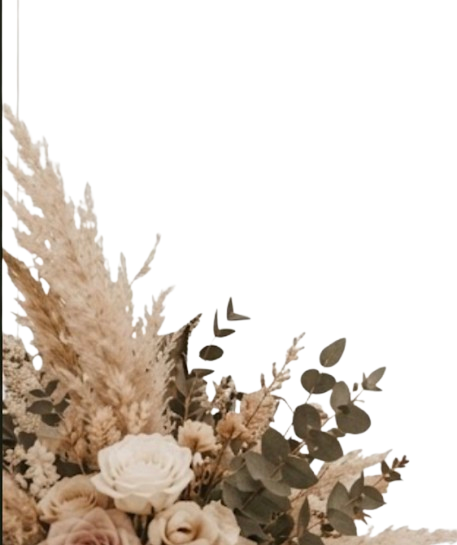
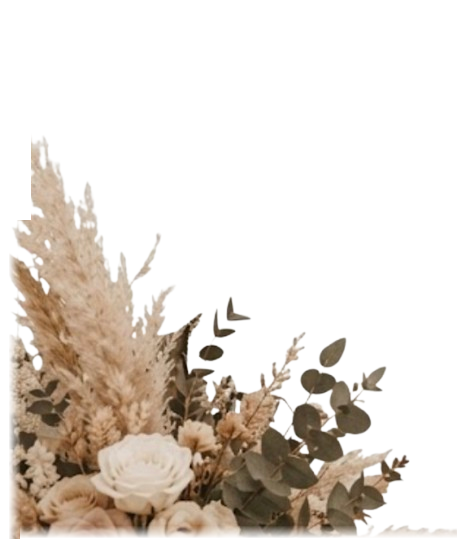
Clean PNG edge artifacts and perfectly align top foliage branch and bottom bouquet with arch frame

Changed region(s): [[0.0, 0.0, 1.0, 1.0]]

diff --git a/styles.css b/styles.css
@@ -533,16 +533,22 @@ a {
   margin: 0 auto;
 }
 
-/* Top Arch Foliage Branch */
+/* Top Arch Foliage Branch — Hugging the Golden Arch Curve */
 .arch-top-foliage {
   position: absolute;
-  top: -38px;
-  left: -26px;
-  width: clamp(125px, 16vw, 165px);
+  top: -24px;
+  left: -14px;
+  width: clamp(140px, 18vw, 185px);
   z-index: 25;
   pointer-events: none;
-  transform: rotate(-15deg);
-  filter: drop-shadow(0 8px 16px rgba(0, 0, 0, 0.6));
+  transform: rotate(-6deg);
+  transform-origin: bottom left;
+  filter: drop-shadow(0 10px 20px rgba(0, 0, 0, 0.65));
+  transition: transform 0.4s ease;
+}
+
+.bespoke-arch-wrapper:hover .arch-top-foliage {
+  transform: rotate(-4deg) scale(1.02);
 }
 
 /* Double Gold Arched Contour Frame */
@@ -593,21 +599,21 @@ a {
   pointer-events: none;
 }
 
-/* Floral Bouquet Overlapping Bottom Left */
+/* Floral Bouquet Overlapping Bottom Left Corner of Arch */
 .arch-bottom-bouquet {
   position: absolute;
-  bottom: -32px;
-  left: -44px;
-  width: clamp(155px, 21vw, 215px);
+  bottom: -22px;
+  left: -28px;
+  width: clamp(170px, 23vw, 230px);
   z-index: 30;
   pointer-events: none;
-  filter: drop-shadow(0 14px 24px rgba(0, 0, 0, 0.6));
-  transform: rotate(-6deg);
+  filter: drop-shadow(0 16px 28px rgba(0, 0, 0, 0.65));
+  transform: rotate(0deg);
   transition: transform 0.5s ease;
 }
 
 .bespoke-arch-wrapper:hover .arch-bottom-bouquet {
-  transform: rotate(-4deg) scale(1.03);
+  transform: scale(1.03);
 }
 
 /* Floating Arabic Badge on Arch Bottom */
@@ -1967,15 +1973,17 @@ a {
   }
 
   .arch-bottom-bouquet {
-    bottom: -28px;
-    left: -32px;
-    width: 155px;
+    bottom: -18px;
+    left: -20px;
+    width: 160px;
+    transform: rotate(0deg);
   }
 
   .arch-top-foliage {
-    top: -30px;
-    left: -18px;
-    width: 120px;
+    top: -20px;
+    left: -10px;
+    width: 130px;
+    transform: rotate(-6deg);
   }
 
   .canvas-corner-foliage-tr {
